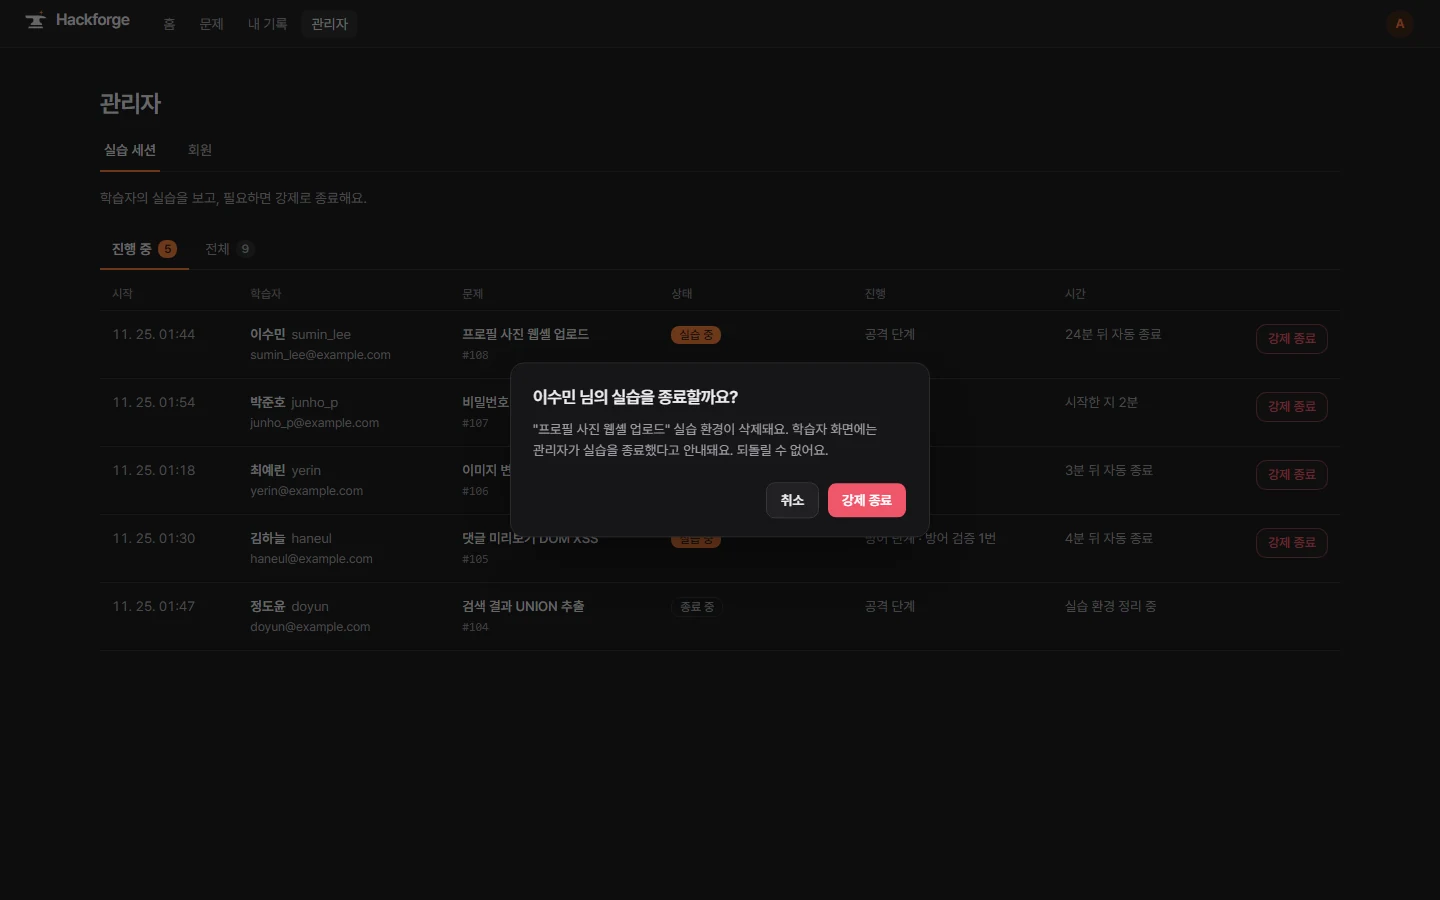
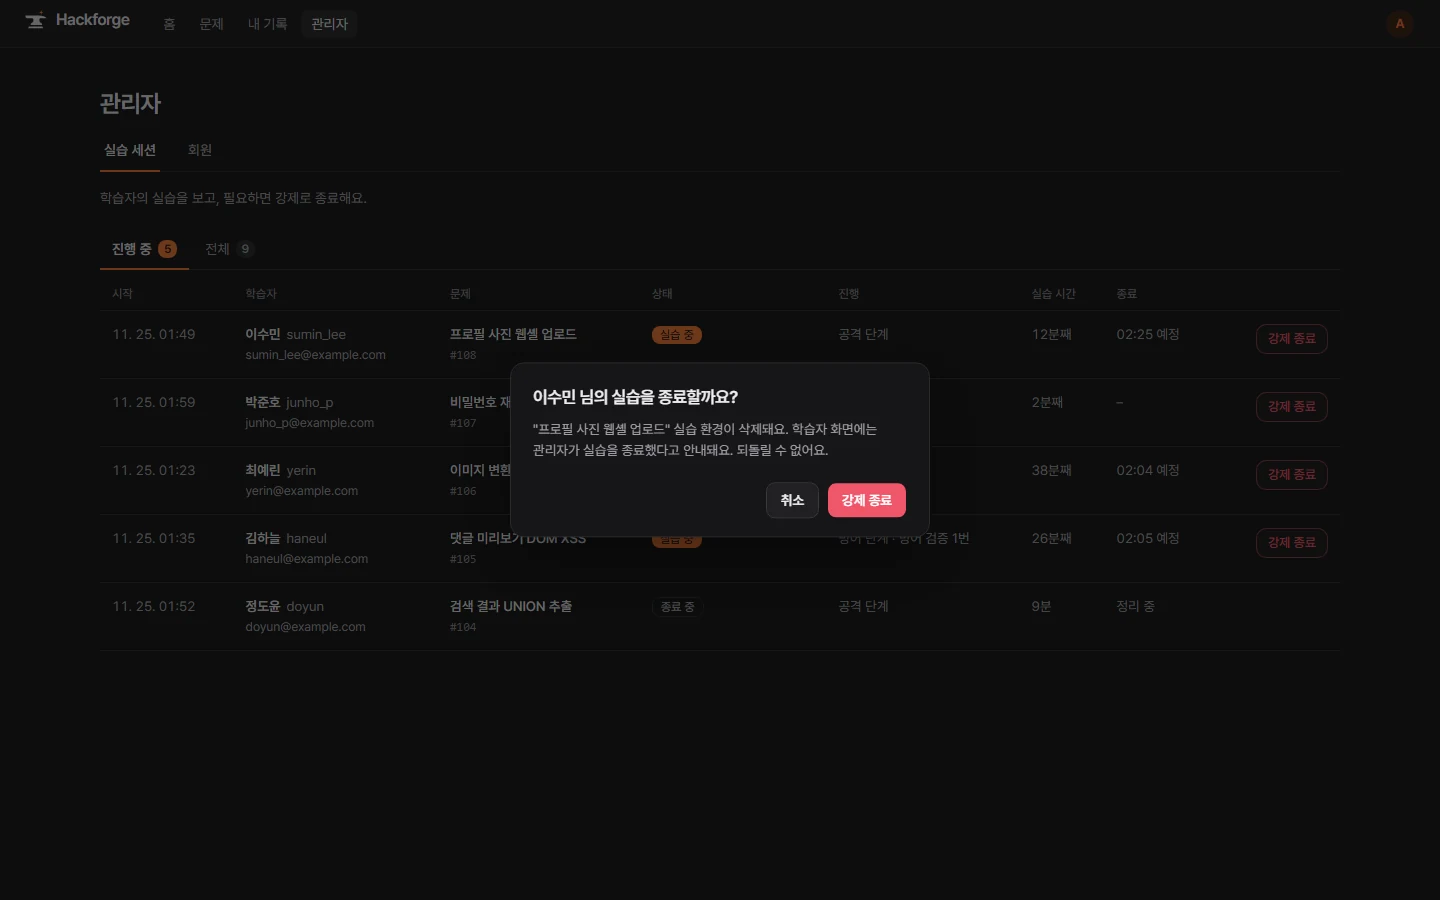
fix: 관리자 세션 시간 칸을 실습 시간과 종료로 나눔
한 칸에 남은 시간, 지난 시간, 시각이 섞여 위아래로 비교되지 않아, 칸마다 기준을 하나로 맞춘다(사람이 정함).

diff --git a/src/pages/admin-labs-page.tsx b/src/pages/admin-labs-page.tsx
@@ -10,7 +10,7 @@ import { SmallButton } from '@/components/admin/small-button'
 import { TerminateDialog, type TerminateTarget } from '@/components/admin/terminate-dialog'
 import { FormAlert } from '@/components/form'
 import { Pagination } from '@/components/pagination'
-import { adminProgress, adminStatus, adminTime, canTerminate } from '@/lib/admin'
+import { adminDuration, adminEnd, adminProgress, adminStatus, canTerminate } from '@/lib/admin'
 import { cn } from '@/lib/utils'
 
 const FILTERS: [AdminLabFilter, string][] = [
@@ -28,7 +28,7 @@ const REFRESH_MS = 10_000
 
 /**
  * `/admin/labs` 실습 세션(ADR 026): 진행 중 기본과 전체, 최근 시작 순, 페이지는 주소에.
- * 줄마다 학습자, 문제, 상태, 진행, 시간과 강제 종료. 문제를 누르면 그 세션의 기록
+ * 줄마다 학습자, 문제, 상태, 진행, 실습 시간, 종료와 강제 종료. 문제를 누르면 그 세션의 기록
  */
 export function AdminLabsPage() {
   const [params, setParams] = useSearchParams()
@@ -143,7 +143,7 @@ const TONE = {
   fail: 'border border-fail/50 text-fail',
 }
 
-/** 남은 시간은 목록을 받은 시각(now) 기준이라 다시 불러올 때마다(10초) 새로 센다 */
+/** 진행 중 실습 시간은 목록을 받은 시각(now) 기준이라 다시 불러올 때마다(10초) 새로 센다 */
 function SessionTable({
   sessions,
   dim,
@@ -165,7 +165,8 @@ function SessionTable({
             <th className="px-3 pt-3 pb-2 font-medium">문제</th>
             <th className="px-3 pt-3 pb-2 font-medium">상태</th>
             <th className="px-3 pt-3 pb-2 font-medium">진행</th>
-            <th className="px-3 pt-3 pb-2 font-medium">시간</th>
+            <th className="px-3 pt-3 pb-2 font-medium">실습 시간</th>
+            <th className="px-3 pt-3 pb-2 font-medium">종료</th>
             <th className="px-3 pt-3 pb-2">
               <span className="sr-only">동작</span>
             </th>
@@ -212,7 +213,10 @@ function SessionTable({
                   )}
                 </td>
                 <td className="px-3 py-3.25 whitespace-nowrap text-muted-foreground tabular-nums">
-                  {adminTime(lab, now)}
+                  {adminDuration(lab, now)}
+                </td>
+                <td className="px-3 py-3.25 whitespace-nowrap text-muted-foreground tabular-nums">
+                  {adminEnd(lab)}
                 </td>
                 <td className="px-3 py-3.25 text-right whitespace-nowrap">
                   {canTerminate(lab) && (

diff --git a/src/lib/admin.ts b/src/lib/admin.ts
@@ -1,5 +1,5 @@
 import type { LabSessionResponse } from '@/api/generated/types.gen'
-import { clockTime, END_REASON_SHORT, isEnded, PREP_STEPS } from '@/lib/lab'
+import { clockTime, END_REASON_SHORT, isEnded, labDuration, PREP_STEPS } from '@/lib/lab'
 
 type Lab = Pick<
   LabSessionResponse,
@@ -48,21 +48,30 @@ export function adminProgress(lab: Lab): string {
   return parts.join(' · ')
 }
 
-/** 시간 한 줄: 실습 중이면 자동 종료까지, 준비 중이면 시작한 지, 끝났으면 종료 시각과 사유 */
-export function adminTime(lab: Lab, now: number): string {
-  const minutes = (from: string) => Math.max(0, Math.floor((now - Date.parse(from)) / 60_000))
-  if (lab.status === 'READY' && lab.idleDeadline) {
-    const left = Math.max(0, Math.ceil((Date.parse(lab.idleDeadline) - now) / 60_000))
-    return `${left}분 뒤 자동 종료`
+/** 실습 시간: 시작부터 지금(끝났으면 종료)까지. 준비 중이거나 실습 중이면 "째" */
+export function adminDuration(lab: Lab, now: number): string {
+  const time = labDuration(lab, now)
+  return canTerminate(lab) ? `${time}째` : time
+}
+
+/**
+ * 종료: 모든 줄을 시각으로. 끝났으면 종료 시각과 사유, 실습 중이면 자동 종료 예정 시각.
+ * 시작한 날과 다른 날이면 날짜도 붙인다
+ */
+export function adminEnd(lab: Lab): string {
+  const at = (iso: string) => {
+    const sameDay = new Date(iso).toDateString() === new Date(lab.createdAt).toDateString()
+    if (sameDay) return clockTime(iso)
+    const d = new Date(iso)
+    return `${String(d.getMonth() + 1).padStart(2, '0')}. ${String(d.getDate()).padStart(2, '0')}. ${clockTime(iso)}`
   }
-  if (lab.status === 'CREATING' || lab.status === 'INITIALIZING')
-    return `시작한 지 ${minutes(lab.createdAt)}분`
-  if (lab.status === 'TERMINATING') return '실습 환경 정리 중'
-  if (isEnded(lab.status) && lab.endedAt) {
-    const reason = lab.endReason ? ` · ${END_REASON_SHORT[lab.endReason]}` : ''
-    return `${clockTime(lab.endedAt)} 종료${reason}`
-  }
-  return ''
+  if (lab.status === 'READY' && lab.idleDeadline) return `${at(lab.idleDeadline)} 예정`
+  if (lab.status === 'TERMINATING') return '정리 중'
+  if (isEnded(lab.status) && lab.endedAt)
+    return [at(lab.endedAt), lab.endReason && END_REASON_SHORT[lab.endReason]]
+      .filter(Boolean)
+      .join(' · ')
+  return '–'
 }
 
 /** 강제 종료할 수 있는 세션: 종료 전(종료 중 제외) */

diff --git a/src/lib/admin.test.ts b/src/lib/admin.test.ts
@@ -1,6 +1,6 @@
 import { describe, expect, it } from 'vitest'
 
-import { adminProgress, adminStatus, adminTime, canTerminate } from './admin'
+import { adminDuration, adminEnd, adminProgress, adminStatus, canTerminate } from './admin'
 
 const NOW = Date.parse('2026-11-25T05:00:00Z')
 const lab = {
@@ -37,15 +37,30 @@ describe('관리자 세션', () => {
     expect(adminProgress({ ...lab, status: 'FAILED' })).toBe('')
   })
 
-  it('시간: 자동 종료까지, 준비 중 경과, 종료 시각과 사유', () => {
-    expect(adminTime(lab, NOW)).toBe('24분 뒤 자동 종료')
-    expect(adminTime({ ...lab, status: 'INITIALIZING' }, NOW)).toBe('시작한 지 20분')
-    expect(adminTime({ ...lab, status: 'TERMINATING' }, NOW)).toBe('실습 환경 정리 중')
-    const ended = adminTime(
-      { ...lab, status: 'DELETED', endReason: 'ADMIN', endedAt: '2026-11-25T04:50:00Z' },
-      NOW,
+  it('실습 시간: 시작부터 지금(끝났으면 종료)까지, 진행 중이면 째', () => {
+    expect(adminDuration(lab, NOW)).toBe('20분째')
+    expect(adminDuration({ ...lab, status: 'INITIALIZING' }, NOW)).toBe('20분째')
+    expect(
+      adminDuration(
+        { ...lab, status: 'DELETED', endReason: 'IDLE', endedAt: '2026-11-25T04:59:00Z' },
+        NOW,
+      ),
+    ).toBe('19분')
+  })
+
+  it('종료: 모두 시각으로. 실습 중은 예정, 끝났으면 사유, 다른 날이면 날짜도', () => {
+    expect(adminEnd(lab)).toMatch(/^\d\d:\d\d 예정$/)
+    expect(adminEnd({ ...lab, status: 'CREATING' })).toBe('–')
+    expect(adminEnd({ ...lab, status: 'TERMINATING' })).toBe('정리 중')
+    expect(
+      adminEnd({ ...lab, status: 'DELETED', endReason: 'ADMIN', endedAt: '2026-11-25T04:50:00Z' }),
+    ).toMatch(/^\d\d:\d\d · 관리자 종료$/)
+    expect(adminEnd({ ...lab, status: 'FAILED', endedAt: '2026-11-25T04:44:00Z' })).toMatch(
+      /^\d\d:\d\d$/,
     )
-    expect(ended).toMatch(/^\d\d:\d\d 종료 · 관리자 종료$/)
+    expect(
+      adminEnd({ ...lab, status: 'DELETED', endReason: 'USER', endedAt: '2026-11-27T04:50:00Z' }),
+    ).toMatch(/^11\. 27\. \d\d:\d\d · 직접 종료$/)
   })
 
   it('강제 종료는 준비 중이거나 실습 중일 때만', () => {

diff --git a/src/pages/admin-labs-page.test.tsx b/src/pages/admin-labs-page.test.tsx
@@ -17,7 +17,8 @@ describe('관리자 실습 세션', () => {
     const [first, preparing, , , terminating] = await rows()
     expect(first).toHaveTextContent('이수민')
     expect(first).toHaveTextContent('실습 중')
-    expect(first).toHaveTextContent(/\d+분 뒤 자동 종료/)
+    expect(first).toHaveTextContent(/12분째/)
+    expect(first).toHaveTextContent(/\d\d:\d\d 예정/)
     expect(within(first).getByRole('link', { name: '프로필 사진 웹셸 업로드' })).toHaveAttribute(
       'href',
       '/admin/labs/108',
@@ -36,7 +37,7 @@ describe('관리자 실습 세션', () => {
     await user.click(await screen.findByRole('tab', { name: /전체/ }))
     const all = await rows()
     expect(all).toHaveLength(9)
-    expect(all[5]).toHaveTextContent(/\d\d:\d\d 종료 · 입력 없음/)
+    expect(all[5]).toHaveTextContent(/39분\d\d:\d\d · 입력 없음/)
     expect(all[7]).toHaveTextContent('생성 실패')
   })
 

diff --git a/DESIGN.md b/DESIGN.md
@@ -206,7 +206,7 @@ components:
 - 내 정보: 제목과 패널 두 개(기본 정보, 비밀번호 변경)를 640px 한 열로 묶어 화면 가운데에 둔다. 기본 정보는 이름표와 값 두 열로 보기만 함. 담금질 선은 로그인·가입 카드에만 쓴다
 - 회원 관리: 본문 1240px 틀을 화면 가운데에 두고 그 안에서 왼쪽 정렬. 제목 "관리자"와 탭 [실습 세션][회원](2026-11-25 사람이 결정), 설명, 상태 탭(승인 대기, 승인 완료, 거절, 탭마다 회원 수. 지금 탭의 수는 불씨 채움), 그 아래 표. 승인 대기 탭은 가입일·이름과 닉네임(아래 이메일)·소속·가입 메모·동작, 승인 완료 탭은 가입 메모 대신 권한 칩. 동작 버튼은 줄 오른쪽 끝에 작은 보조 버튼(30px)으로, 승인만 초록 선과 글자
 - 관리자 자신의 줄은 이름 옆에 "나"를 붙이고 권한 변경과 임시 비밀번호를 막는다(내 비밀번호는 내 정보에서)
-- 관리자 실습 세션(캡처 `design/screens/admin-lab*`): 회원 관리와 같은 틀과 표. 상태 탭 [진행 중][전체], 열은 시작·학습자(이름과 닉네임, 아래 이메일)·문제(아래 세션 번호)·상태 칩(실습 중은 불씨 채움, 준비 중은 불씨 선, 생성 실패는 FAIL 선)·진행·시간. 준비 중이거나 실습 중인 줄 오른쪽 끝에 [강제 종료](작은 보조 버튼, FAIL 선과 글자)와 확인 창
+- 관리자 실습 세션(캡처 `design/screens/admin-lab*`): 회원 관리와 같은 틀과 표. 상태 탭 [진행 중][전체], 열은 시작·학습자(이름과 닉네임, 아래 이메일)·문제(아래 세션 번호)·상태 칩(실습 중은 불씨 채움, 준비 중은 불씨 선, 생성 실패는 FAIL 선)·진행·실습 시간(시작부터 지금 또는 종료까지, 진행 중이면 "째")·종료(모두 시각: 종료 시각과 사유, 실습 중이면 자동 종료 예정 시각). 준비 중이거나 실습 중인 줄 오른쪽 끝에 [강제 종료](작은 보조 버튼, FAIL 선과 글자)와 확인 창
 - 관리자 세션 기록은 내 실습 기록의 세션 화면과 같고, 학습자 줄을 더하고 [실습으로 돌아가기] 대신 [강제 종료], 해답은 없다
 - 빈 목록은 표 자리 가운데에 굵은 한 줄과 설명 한 줄
 
